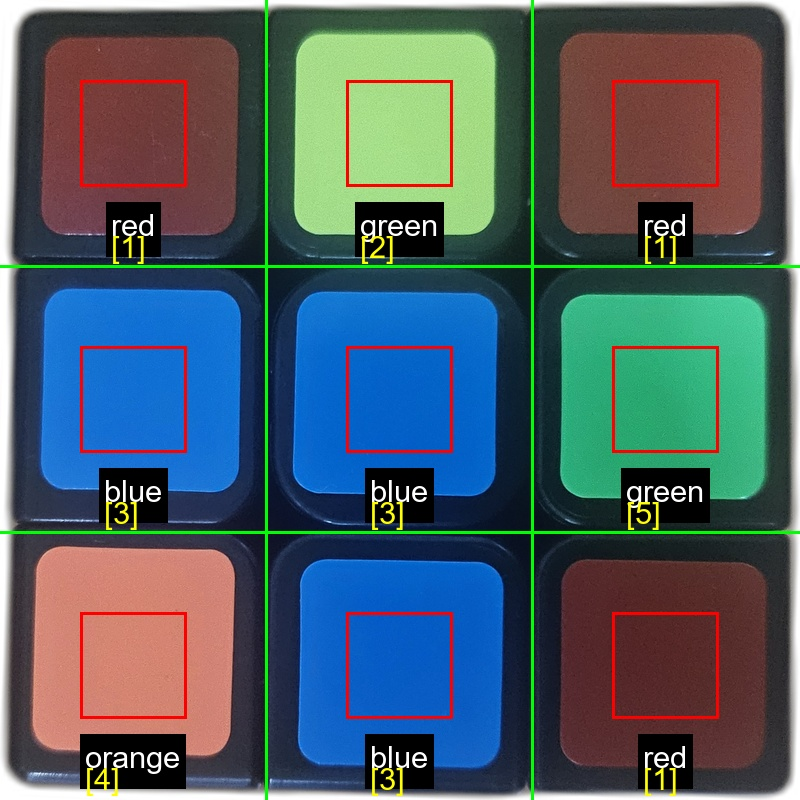
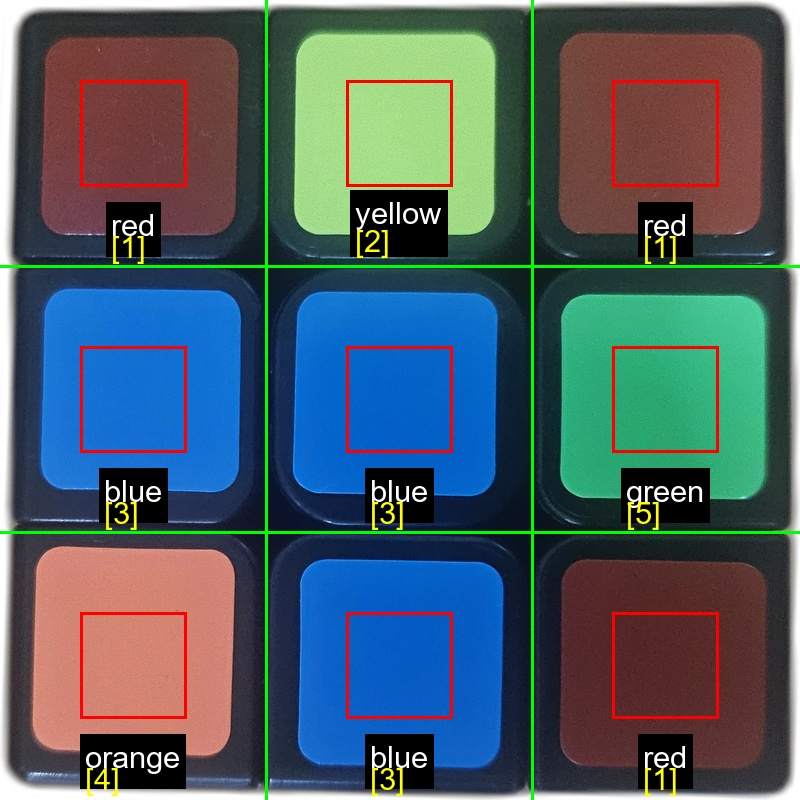
f

Changed region(s): [[0.4375, 0.2188, 0.5625, 0.3438]]

diff --git a/remove_bg.py b/remove_bg.py
@@ -5,58 +5,47 @@ import numpy as np
 import cv2
 import glob
 from sklearn.cluster import KMeans
+from scipy.optimize import linear_sum_assignment
 
-# ============= K-means 기반 색상 인식 =============
-def rgb_to_hsv(rgb):
-    """RGB를 HSV로 변환"""
-    r, g, b = rgb / 255.0
-    max_val = max(r, g, b)
-    min_val = min(r, g, b)
-    diff = max_val - min_val
-    
-    v = max_val
-    s = 0 if max_val == 0 else diff / max_val
-    
-    if diff == 0:
-        h = 0
-    elif max_val == r:
-        h = 60 * (((g - b) / diff) % 6)
-    elif max_val == g:
-        h = 60 * (((b - r) / diff) + 2)
-    else:
-        h = 60 * (((r - g) / diff) + 4)
-    
-    return h, s, v
+# ============= 기준 RGB 값 정의 =============
+REFERENCE_COLORS = {
+    'white':  np.array([255, 255, 255]),  # 흰색
+    'yellow': np.array([255, 255, 0]),    # 노란색
+    'orange': np.array([255, 165, 0]),    # 주황색
+    'red':    np.array([180, 0, 0]),      # 빨간색
+    'green':  np.array([0, 155, 0]),      # 초록색
+    'blue':   np.array([0, 0, 255])       # 파란색
+}
 
-def get_color_name_from_cluster_center(rgb):
-    """클러스터 중심 RGB로 색상 이름 판단"""
-    h, s, v = rgb_to_hsv(rgb)
+def rgb_distance(rgb1, rgb2):
+    """두 RGB 값 사이의 유클리드 거리"""
+    return np.sqrt(np.sum((rgb1 - rgb2) ** 2))
+
+def assign_clusters_to_colors(cluster_centers):
+    """
+    클러스터 중심을 기준 색상에 1:1 매칭
+    헝가리안 알고리즘 사용 (중복 없는 최적 매칭)
+    """
+    n_clusters = len(cluster_centers)
+    color_names = list(REFERENCE_COLORS.keys())
     
-    # 흰색: 높은 밝기, 낮은 채도
-    if v > 0.75 and s < 0.25:
-        return 'white'
+    # 비용 행렬 생성 (거리 = 비용)
+    cost_matrix = np.zeros((n_clusters, len(color_names)))
     
-    # 노란색: Hue 40-70
-    if 40 <= h <= 70 and v > 0.55:
-        return 'yellow'
+    for i, cluster_center in enumerate(cluster_centers):
+        for j, color_name in enumerate(color_names):
+            ref_rgb = REFERENCE_COLORS[color_name]
+            cost_matrix[i, j] = rgb_distance(cluster_center, ref_rgb)
     
-    # 주황색: Hue 10-40
-    if 10 <= h <= 40:
-        return 'orange'
+    # 헝가리안 알고리즘으로 최적 매칭
+    row_ind, col_ind = linear_sum_assignment(cost_matrix)
     
-    # 빨간색: Hue 0-10 or 350-360
-    if (h < 10 or h > 350):
-        return 'red'
+    # 매칭 결과
+    cluster_to_color = {}
+    for cluster_id, color_id in zip(row_ind, col_ind):
+        cluster_to_color[cluster_id] = color_names[color_id]
     
-    # 초록색: Hue 70-160
-    if 70 <= h <= 160:
-        return 'green'
-    
-    # 파란색: Hue 180-260
-    if 180 <= h <= 260:
-        return 'blue'
-    
-    return 'unknown'
+    return cluster_to_color
 
 def extract_rgb_from_cell(img_array, row, col, sample_ratio=0.4):
     """단일 셀에서 RGB 추출"""
@@ -77,7 +66,7 @@ def extract_rgb_from_cell(img_array, row, col, sample_ratio=0.4):
     
     return avg_color, (start_x, start_y, sample_width, sample_height)
 
-def visualize_with_clusters(img_array, colors, cluster_labels, output_path):
+def visualize_with_clusters(img_array, colors, cluster_labels, cluster_to_color, output_path):
     """클러스터 결과를 시각화"""
     height, width = img_array.shape[:2]
     cell_height = height // 3
@@ -177,12 +166,12 @@ def perspective_transform(image, pts):
     return warped
 
 # ============= 전체 파이프라인 =============
-def process_cube_with_kmeans(input_folder='uploaded_images', 
-                             output_square_folder='cube_square',
-                             output_vis_folder='cube_visualization',
-                             output_file='cube_colors.txt',
-                             size=800):
-    """K-means 기반 루빅스 큐브 색상 인식"""
+def process_cube_with_reference_matching(input_folder='uploaded_images', 
+                                        output_square_folder='cube_square',
+                                        output_vis_folder='cube_visualization',
+                                        output_file='cube_colors.txt',
+                                        size=800):
+    """기준 RGB 매칭 기반 루빅스 큐브 색상 인식"""
     
     # 출력 폴더 생성
     for folder in [output_square_folder, output_vis_folder]:
@@ -200,15 +189,21 @@ def process_cube_with_kmeans(input_folder='uploaded_images',
         return
     
     print(f"=" * 60)
-    print(f"K-means 기반 루빅스 큐브 색상 인식")
+    print(f"기준 RGB 매칭 기반 루빅스 큐브 색상 인식")
     print(f"총 {len(image_files)}개의 이미지를 처리합니다.")
     print(f"=" * 60)
+    print()
+    
+    print("기준 RGB 값:")
+    for color_name, rgb in REFERENCE_COLORS.items():
+        print(f"  {color_name:7s}: RGB{tuple(rgb)}")
     print()
     
     # Phase 1: 모든 이미지 처리 및 RGB 수집
     all_rgb_values = []
     all_images_data = []
     
+    print("=" * 60)
     print("Phase 1: 배경 제거 및 RGB 값 수집")
     print("-" * 60)
     
@@ -284,17 +279,19 @@ def process_cube_with_kmeans(input_folder='uploaded_images',
             
         except Exception as e:
             print(f"  ✗ 오류: {e}\n")
+            import traceback
+            traceback.print_exc()
             continue
     
     # Phase 2: K-means 클러스터링
-    print("\n" + "=" * 60)
+    print("=" * 60)
     print("Phase 2: K-means 클러스터링 (54개 칸 → 6개 그룹)")
     print("-" * 60)
     
     all_rgb_array = np.array(all_rgb_values)
     print(f"총 {len(all_rgb_array)}개 칸의 RGB 데이터 수집 완료")
     
-    # K-means 실행 (k=6, 루빅스 큐브 색상 6개)
+    # K-means 실행 (k=6)
     kmeans = KMeans(n_clusters=6, random_state=42, n_init=10)
     kmeans.fit(all_rgb_array)
     
@@ -302,18 +299,28 @@ def process_cube_with_kmeans(input_folder='uploaded_images',
     all_labels = kmeans.labels_
     
     print(f"\nK-means 클러스터링 완료!")
-    print(f"\n클러스터 중심 색상:")
-    
-    # 각 클러스터의 색상 이름 판단
-    cluster_color_names = {}
+    print(f"\n클러스터 중심 RGB:")
     for i, center in enumerate(cluster_centers):
-        color_name = get_color_name_from_cluster_center(center)
-        cluster_color_names[i] = color_name
-        print(f"  클러스터 {i}: RGB{center.astype(int)} → {color_name}")
+        print(f"  클러스터 {i}: RGB{tuple(center.astype(int))}")
     
-    # Phase 3: 결과 시각화 및 저장
+    # Phase 3: 클러스터를 기준 색상에 매칭
     print("\n" + "=" * 60)
-    print("Phase 3: 결과 시각화 및 저장")
+    print("Phase 3: 클러스터 → 기준 색상 1:1 매칭")
+    print("-" * 60)
+    
+    cluster_to_color = assign_clusters_to_colors(cluster_centers)
+    
+    print("\n매칭 결과:")
+    for cluster_id in sorted(cluster_to_color.keys()):
+        color_name = cluster_to_color[cluster_id]
+        center_rgb = cluster_centers[cluster_id].astype(int)
+        ref_rgb = REFERENCE_COLORS[color_name].astype(int)
+        distance = rgb_distance(cluster_centers[cluster_id], REFERENCE_COLORS[color_name])
+        print(f"  클러스터 {cluster_id} RGB{tuple(center_rgb)} → {color_name:7s} (기준: RGB{tuple(ref_rgb)}, 거리: {distance:.1f})")
+    
+    # Phase 4: 결과 시각화 및 저장
+    print("\n" + "=" * 60)
+    print("Phase 4: 결과 시각화 및 저장")
     print("-" * 60)
     
     results = []
@@ -333,19 +340,18 @@ def process_cube_with_kmeans(input_folder='uploaded_images',
             row_colors = []
             for col in range(3):
                 cluster_id = image_labels[row][col]
-                color_name = cluster_color_names[cluster_id]
+                color_name = cluster_to_color[cluster_id]
                 row_colors.append(color_name)
             colors.append(row_colors)
         
         # 시각화
         vis_filename = f"vis_{filename}"
         vis_path = os.path.join(output_vis_folder, vis_filename)
-        visualize_with_clusters(square_array, colors, image_labels, vis_path)
+        visualize_with_clusters(square_array, colors, image_labels, cluster_to_color, vis_path)
         
-        print(f"{filename}:")
+        print(f"\n{filename}:")
         for row in colors:
             print(f"  {' '.join(row)}")
-        print()
         
         results.append({
             'filename': filename,
@@ -360,16 +366,16 @@ def process_cube_with_kmeans(input_folder='uploaded_images',
                 f.write(f"{' '.join(row)}\n")
             f.write("\n")
     
-    print("=" * 60)
+    print("\n" + "=" * 60)
     print(f"모든 처리 완료!")
     print(f"- 정사각형 이미지: '{output_square_folder}' 폴더")
-    print(f"- 시각화 이미지: '{output_vis_folder}' 폴더 (클러스터 번호 포함)")
+    print(f"- 시각화 이미지: '{output_vis_folder}' 폴더")
     print(f"- 색상 데이터: '{output_file}' 파일")
     print(f"=" * 60)
 
 
 if __name__ == "__main__":
-    process_cube_with_kmeans(
+    process_cube_with_reference_matching(
         input_folder='uploaded_images',
         output_square_folder='cube_square',
         output_vis_folder='cube_visualization',
